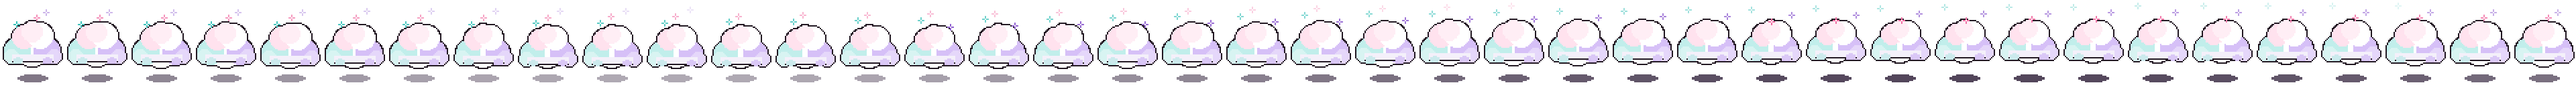
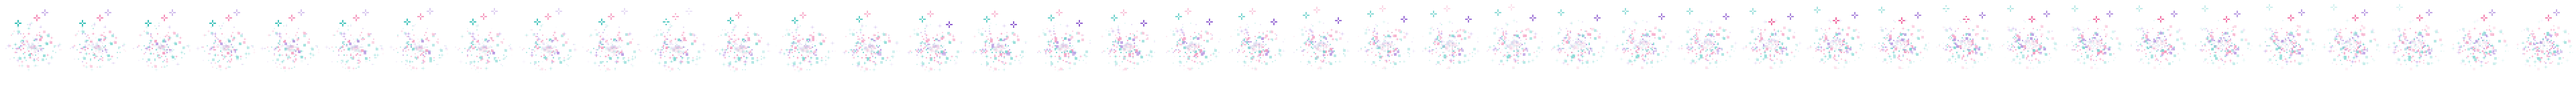
Dance Sisters v48: the Spirit of Dance as a nebulous cloud of energy
A bright white core with flecks scattering outwards, mostly white with
glowing flecks in the sisters' colours, after the owner's reference; a
little larger at every level.

Claude-Session: https://claude.ai/code/session_01KjbiH1Gxo3FA48ifQDakKd

Changed region(s): [[0.0, 0.2188, 1.0, 0.8125], [0.0, 0.875, 1.0, 0.9688], [0.1562, 0.1875, 0.2188, 0.2188]]

diff --git a/dance/app.js b/dance/app.js
@@ -4,7 +4,7 @@
    decision, 30 Oct 2026: the names are fixed in the game); a level is "<stage> <name>". Save in
    localStorage['dance.save']; nothing is sent anywhere. */
 'use strict';
-const APP_VERSION = '47';
+const APP_VERSION = '48';
 const ART = 'art/'; let ART_V = '';
 const NAMES = ['Lainey', 'Miri', 'Juliette'];   // youngest first
 let SPEC = null;
@@ -119,7 +119,7 @@ const earns = b => RATE(b.lv) * (b.lv === SPIRIT ? (b.sl || 1) : 1);   // the Sp
 const income = () => Object.values(save.fields).flat().reduce((s, b) => s + earns(b), 0);
 /* the Spirit of Dance: a level 1–100 in the middle of the cloud, which grows at 10 / 30 / 50 / 75; at 100 the game is won */
 const SPIRIT_MAX = 100;
-const spiritScale = sl => sl >= 75 ? 1.25 : sl >= 50 ? 1.1 : sl >= 30 ? .95 : sl >= 10 ? .8 : .65;
+const spiritScale = sl => sl >= 75 ? 1.45 : sl >= 50 ? 1.25 : sl >= 30 ? 1.08 : sl >= 10 ? .92 : .78;
 
 /* ---------- the field ---------- */
 function mount() {

diff --git a/dance/style.css b/dance/style.css
@@ -152,7 +152,7 @@ i.cn { display: inline-block; width: 16px; height: 16px; background: url('art/co
 .ib[hidden] { display: none; }
 
 /* the Spirit of Dance: a semi-transparent cloud sized by its level (--ss), the level number in the middle */
-.beast.spirit .spr { opacity: .8; transform: scale(var(--ss, 1)); transform-origin: 50% 100%; }
+.beast.spirit .spr { opacity: .85; transform: scale(var(--ss, 1)); transform-origin: 50% 100%; }
 .beast.spirit .sn { position: absolute; left: 50%; bottom: calc(60px * var(--ss, 1)); transform: translateX(-50%) scale(calc(var(--ss, 1) * 1.6)); transform-origin: 50% 50%; pointer-events: none; font-size: 0; line-height: 0; }
 .beast.spirit .sn .pt { filter: none; }
 .beast.spirit .sn .pt i { background-image: url('art/font.png'); }

diff --git a/dance/sw.js b/dance/sw.js
@@ -1,6 +1,6 @@
 // Dance Evolution service worker: the app shell is cached on install; the beast pictures and anything else under ../art
 // are cached as they are first fetched (cache first after that). Bump CACHE together with APP_VERSION in app.js.
-const CACHE = 'dance-v47';
+const CACHE = 'dance-v48';
 const SHELL = ['./', 'index.html', 'app.js', 'style.css', 'manifest.webmanifest', 'dancers.json', 'art/font.json', 'art/font.png', 'art/font_w.png'];
 self.addEventListener('install', e => { e.waitUntil(caches.open(CACHE).then(c => Promise.all(SHELL.map(u => c.add(u).catch(() => {})))).then(() => self.skipWaiting())); });
 // on activation, anything the new cache is missing (a shell file whose install fetch failed on a poor connection) is copied

diff --git a/CLAUDE.md b/CLAUDE.md
@@ -622,7 +622,7 @@ The Merge Beasts engine with **dancers**, at **latin.musicalmagic.uk/dance/** (`
 wording and sprites swapped; same save shape in `localStorage['dance.save']`). **The chain is 36 stages × 3 sisters = 108
 levels (v36: the owner wants twelve characters in every room, so nine rooms × four stages; `sisters7.py`; `load` remaps a save from the 20-stage chain by stage name, `save.chainv` = 2)** (`dance/dancers.json`: stage, sister, stageName, sheet, frames, top, crawl; worlds by stage, four each: Nursery 0–3 (Baby, Tot, **Birthday** — party hat, striped top, a balloon; a bounce, a sway and claps, a twirl — Nursery), Dance school 4–7 (Leotard, Dance school, First tutu, Jazz),
 Ballet theatre 8–11 (En pointe, Swan, **Sugar Plum** — the Nutcracker fairy, lilac tutu dotted in her colour, a wand; hops on pointe, a port de bras, piqué turns — Prima), City stage 12–15 (Street, **Tap** — waistcoat, bowler, black tap shoes; shuffle-hop, soft-shoe sway, pivot and stamp — **Salsa** — ruffles, red heels, hoop earrings; the basic step, hip sway, the cross-body turn — Stage star), World tour 16–19 (World tour, **Bollywood** — orange choli, gold bangles, a flower; shoulder bounces and jumps, wrist circles and the head slide, a spin — Movie star, Royal gala), Academy 20–23 (Teacher, **Examiner** — grey suit, a clipboard; marks, a nod, a hop — **Judge** — sequinned jacket, the "10" paddle — **Graduate** — gown and mortarboard; a jump for joy, hand on heart, a wave; `bg_academy`: a hall with three portraits, a trophy cabinet, a red carpet), **Studio 24–27** (**Rehearsal** — leggings, leg warmers `warmers`, a water bottle; star jumps, stretches, a lunge — Choreographer, **Dance captain** — black tee with her star; counts and jumps, arm sweeps, turning to the line — **Coach** — tracksuit and cap; squats, stretches, claps; `bg_studio`: a mirror wall with the cast reflected, a barre, a whiteboard, a chair, a boombox, tape marks), **Stage door 28–31** (**Understudy** — rehearsal greys, the script; Director, **Leading lady** — feather boa `collar: 'boa'`, long gloves; a kick, the boa sweep, a spin — **Producer** — the suit, a phone; `bg_stagedoor`: backstage bricks, the star door and its sign, a lamp, a costume rail, a flight case, a rope), **Hall of fame 32–35** (Icon, **Statue** — gold from head to toe, `skin_override` / `hairc_override`; a held pose and a bounce, a slow shimmer, a slow turn — **Superstar** — gold fringe and gloves, a boa; a leap, the sweep, a spin — Legend; new hats `partyhat` / `bowler` / `mortar`, props `wand` / `clipboard` / `paddle` / `bottle` / `script` / `phone`; `bg_hall`: spotlights, three framed stars in the sisters' colours, a chandelier, a marble plinth with a gold star, velvet ropes, a red carpet; `scratchpad/dancers/rooms2.py`) — **`load` migrates saves when rooms are split (v35)**: every dancer moves to the room of her stage, a bag that pointed into a later room moves there (clamped inside each room's levels), and the open rooms follow what has been made; stages: Baby, Tot, Nursery, Leotard, Dance school, First tutu,
-Jazz, En pointe, Swan, Prima, Street, Stage star, World tour, Movie star (dark bodice, long gown, flashbulbs), Royal gala (pale gown, tiara, a waltz), Teacher (bun, cardigan, black skirt, cane), **Choreographer** (all black, headset, shoes in her colour: marking the counts / arm cues / a spin to face the cast), **Director** (dark coat, red scarf: the bow from the wings), **Icon** (her colour head to toe, a silver streak: her earliest move perfected — Lainey's toddler jump as a tuck jump, Miri's sway as swan arms, Juliette's wobbly twirl as a clean double pirouette), Legend; `DESC` one line each). **The economy (31 Oct 2026, after the owner's daughters finished the first version in an afternoon)**: a better bag costs `crateUpCost` = 300 × 1.38^L (1.45 until v36; 108 levels) and **must be earned — the dancer three levels above the bag has to have been made by merging first** (`GATE` = 3, the owner's rule on 31 Oct 2026 after one level proved too easy and two had looked like a bug; near the end the gate is the last dancer; `crateGate` / `crateEarned`, `save.seen`; the shop row says "Locked: make … by merging first" and the button reads 🔒 Locked instead of a price), an Invite is `priceOf` = 40 × 1.35^L. **The Spirit of Dance (v46)**: level 108, stage 36, the one level above Legend Juliette — **two Legend Juliettes merge into it** (the owner's ask): a cloud with hints of the three sisters' colours (teal left, pink top, purple right, three sparkles in their colours; `scratchpad/dancers/spirit.py`, 40 frames, `art/s37_1.png`, drawn at 48 × 64 and doubled; `sisters7.py` appends it on every rebuild), `sister: -1` in `dancers.json`, `spirit: true` in `CHAIN`, named "Spirit of / Dance" above the cloud (`lvHTML`), fanfare kicker "✨ THE SPIRIT OF DANCE ✨", `save.spirit` the first time; **it has a level (v47)**: `b.sl` 1–100 (`SPIRIT_MAX`), shown in the middle of the cloud in the dark pixel font (`.sn`), a Spirit absorbs a Legend Juliette (+1) or another Spirit (the levels add; `canMerge`), the cloud is semi-transparent (`.beast.spirit .spr` opacity .8) and **grows at 10 / 30 / 50 / 75** (`spiritScale` .65 → .8 → .95 → 1.1 → 1.25, `--ss`), earns its level × a dancer's rate (`earns`); **level 100 wins the game** (`won()`, once, `save.won`: the owner's words — "Congratulations … The girls have gone beyond being physical dancers and have become the universal spirit of dance itself …" — with RESTART ON HARD MODE and Keep playing; the Hall offers it again once won). **Hard mode** (`hardMode`, `save.hard` counts restarts): everything is undone — dancers, coins, bags, upgrades, Dancepedia, stars, encores — and `RATE` is halved per hard restart; a `#hardTag` after the rate in the top bar; it lives in the Hall of fame (`stages: [32, 36]`); bags never bring it (`canUp` stops at `CHAIN.length - 2`); two Spirits cannot merge (the Hall opens) and a Spirit or a Legend Juliette can be retired (`isFinal` = `LEGEND` or `SPIRIT`, both set in `buildChain`). **The ending** (`discover` on `LEGEND` = Legend Juliette, not the last level → `finale`, once, `save.finished`; the trio is `CHAIN.slice(LEGEND - 2, LEGEND + 1)`): a curtain-call overlay (`.finale`: red curtains part, the three Legends dancing, a pixel trophy `art/trophy.png`, confetti, "You did it!"), then the **Hall of Fame** (`hall`, the 🏆 button in the top bar, shown once finished): two Spirits cannot merge (a merge of two opens the Hall instead) — **Retire a Legend** removes a final-level dancer from the stage for a ⭐ (`save.stars`) and two hours' income; **Encore** (`save.encore`) starts the show again from the cot with +50 % earnings per encore for ever (`RATE`), keeping upgrades, stars and the Dancepedia. **The sisters' names are fixed in `NAMES` in `dance/app.js`** (youngest first) — the
+Jazz, En pointe, Swan, Prima, Street, Stage star, World tour, Movie star (dark bodice, long gown, flashbulbs), Royal gala (pale gown, tiara, a waltz), Teacher (bun, cardigan, black skirt, cane), **Choreographer** (all black, headset, shoes in her colour: marking the counts / arm cues / a spin to face the cast), **Director** (dark coat, red scarf: the bow from the wings), **Icon** (her colour head to toe, a silver streak: her earliest move perfected — Lainey's toddler jump as a tuck jump, Miri's sway as swan arms, Juliette's wobbly twirl as a clean double pirouette), Legend; `DESC` one line each). **The economy (31 Oct 2026, after the owner's daughters finished the first version in an afternoon)**: a better bag costs `crateUpCost` = 300 × 1.38^L (1.45 until v36; 108 levels) and **must be earned — the dancer three levels above the bag has to have been made by merging first** (`GATE` = 3, the owner's rule on 31 Oct 2026 after one level proved too easy and two had looked like a bug; near the end the gate is the last dancer; `crateGate` / `crateEarned`, `save.seen`; the shop row says "Locked: make … by merging first" and the button reads 🔒 Locked instead of a price), an Invite is `priceOf` = 40 × 1.35^L. **The Spirit of Dance (v46)**: level 108, stage 36, the one level above Legend Juliette — **two Legend Juliettes merge into it** (the owner's ask): a nebulous cloud of energy, not a weather cloud (v48, after the owner's reference picture): a bright white core with pixel flecks scattering outwards and thinning, mostly white with glowing flecks in the three sisters' colours, drifting and twinkling, three sparkles above (`scratchpad/dancers/spirit.py`, 40 frames, `art/s37_1.png`, drawn at 48 × 64 and doubled; `sisters7.py` appends it on every rebuild), `sister: -1` in `dancers.json`, `spirit: true` in `CHAIN`, named "Spirit of / Dance" above the cloud (`lvHTML`), fanfare kicker "✨ THE SPIRIT OF DANCE ✨", `save.spirit` the first time; **it has a level (v47)**: `b.sl` 1–100 (`SPIRIT_MAX`), shown in the middle of the cloud in the dark pixel font (`.sn`), a Spirit absorbs a Legend Juliette (+1) or another Spirit (the levels add; `canMerge`), the cloud is semi-transparent (`.beast.spirit .spr` opacity .8) and **grows at 10 / 30 / 50 / 75** (`spiritScale` .78 → .92 → 1.08 → 1.25 → 1.45, `--ss`), earns its level × a dancer's rate (`earns`); **level 100 wins the game** (`won()`, once, `save.won`: the owner's words — "Congratulations … The girls have gone beyond being physical dancers and have become the universal spirit of dance itself …" — with RESTART ON HARD MODE and Keep playing; the Hall offers it again once won). **Hard mode** (`hardMode`, `save.hard` counts restarts): everything is undone — dancers, coins, bags, upgrades, Dancepedia, stars, encores — and `RATE` is halved per hard restart; a `#hardTag` after the rate in the top bar; it lives in the Hall of fame (`stages: [32, 36]`); bags never bring it (`canUp` stops at `CHAIN.length - 2`); two Spirits cannot merge (the Hall opens) and a Spirit or a Legend Juliette can be retired (`isFinal` = `LEGEND` or `SPIRIT`, both set in `buildChain`). **The ending** (`discover` on `LEGEND` = Legend Juliette, not the last level → `finale`, once, `save.finished`; the trio is `CHAIN.slice(LEGEND - 2, LEGEND + 1)`): a curtain-call overlay (`.finale`: red curtains part, the three Legends dancing, a pixel trophy `art/trophy.png`, confetti, "You did it!"), then the **Hall of Fame** (`hall`, the 🏆 button in the top bar, shown once finished): two Spirits cannot merge (a merge of two opens the Hall instead) — **Retire a Legend** removes a final-level dancer from the stage for a ⭐ (`save.stars`) and two hours' income; **Encore** (`save.encore`) starts the show again from the cot with +50 % earnings per encore for ever (`RATE`), keeping upgrades, stars and the Dancepedia. **The sisters' names are fixed in `NAMES` in `dance/app.js`** (youngest first) — the
 owner's explicit decision on 30 Oct 2026, reaffirmed after the risk of a public repo was put to him; this is the one
 exception to the no-names rule above and it covers the three first names only (no surnames, ages, school or photos — the
 photos he sent to set the looks are not in the repo and must never be); a level is `nameOf(c)` = "<stage> <name>". **The art is the cute 48 × 64 chibi style the owner's daughters loved (v24), chosen again on 31 Oct 2026 after a higher-resolution, likeness-driven redraw (fig4 / sisters4, hand-pixelled heads, kept in the session scratchpad with the research and the plan) was rejected: "not recognisable, and we've lost the cute look"** — at a 30-px face a likeness is carried by hair, colour, size and movement, not by drawing the face. The looks, youngest first: Lainey dark-brown wavy hair pulled back for class (bunches with blue bows at Nursery), simple smile; Miri a mass of dark curls with a centre parting (`curly`), a small grin; Juliette long straight dark hair, tallest, a small grin. **Each sister has a colour family for every costume** (`COL` in `sisters5.py`: Lainey teal, Miri pink, Juliette purple — main / light / dark; the Swan tutu stays white and the Legend gown gold, with the sister's colour on the bodice or panel), and **every stage has its own combination of silhouette, tone, pattern or second colour, legwear, hair or hat and prop** (v32, after the girls found many too similar; `STAGES` in `sisters6.py`; `fig3` options `pattern` dots / stripes / star / sash, `patc`, `gloves`, `collar`, hats and hair `tophat` / `beret` / `hood` / `updo` / `pony` / `bunches`, props `flowers` / `balloon` / `clapper`): Baby nappy; Tot dotted top + tiny tutu, hair down; Nursery party dress with a white collar, a balloon, bunches / curls / ponytail; Leotard pale leotard + white tights; Dance school bun, black practice skirt, pink tights; First tutu dark bodice with a gold sash, big pale tutu, bow / tiara / flower; Jazz striped top, black skirt and tights, a top hat; En pointe white leotard, her tutu, ribbons, bun; Swan all white with her sash and a tiara; Prima dark bodice, her tutu, pink tights, a bouquet, hair up high; Street tee, jeans, trainers, cap / ponytail; Stage star black sequin top, her fringe, gold shoes, mic / star; World tour flamenco ruffles / coin skirt / fan gown; Movie star gold top, her long gown, long gloves, a clapperboard, updo; Royal gala pale gown, white gloves, red sash, tiara; Teacher cardigan with a white collar, black wrap skirt, cane, bun; Choreographer her hoodie, black joggers, headset; Director black coat, red scarf, black beret; Icon her colour head to toe with a white star and the silver streak; Legend gold head to toe with her panel, gold gloves, a star above her — then the stages above. **Art**: 16-bit-style pixel sprites, **the cute 48-unit chibi design drawn at 96 × 128 (v31)** — `fig5.py` runs `fig3`'s body through the doubling canvas (`S2`, finer 1-px outline and shading, the big head and simple dark eyes kept; `facekind` small / round / tall gives Lainey smaller cheerful eyes and Juliette taller ones) — drawn by the session scratchpad generators `scratchpad/dancers/fig2.py` (the palette and the first figure) and **`sisters6.py` (= `sisters5.py` on `figure5`, with secondary motion: the skirt `tdy` and the head lag the body's rise and fall by a frame) + `fig3.py` / `fig5.py`** (`choreography.md`, `plan.md`, `brief.md` and the three `research_*.md` beside them): **each sister has a movement personality that holds through every stage, so she is known without her name — Lainey jumps (lifts, squats, leaps), Miri flows (arms, balances, sways, head tilts), Juliette turns (spins, footwork, clean finishes)** — and **the moves climb a real ladder** (toddler bounce / sway / tiptoe / gallop → primary-class pliés, tendus, sautés, port de bras → arabesque, échappé, pas de chat, développé, a single pirouette → jazz kick-ball-change, isolations, jazz square + pivot → pointe échappés, bourrée, piqué turns → swan sissonnes, swan arms + penché, bourrée en tournant → grand jeté, attitude promenade, fouettés → running man, body wave, two-step + freeze → kick line + split leap, mic turn, chaînés → flamenco / belly dance / fan dance → red carpet, a waltz, teaching, choreographing, the director's bow, the icon's perfected first move → grand jeté manège, penché, fouettés, all into a révérence); the Baby crawls (Lainey fast then bum-bounces; Miri sits rocking and clapping with a short crawl; Juliette crawls and pushes up to kneel). Keyframes are eased to 32 frames (40 for Baby, Prima, Legend). `fig3.figure3` takes a continuous `pose` — limb endpoints, optional knees `lk/rk`, elbows `le/re`, `sink` (hips drop for a plié), lean, bend, lift, `pointe`, `jazz` hands, a `turn` that **rotates the body in depth (v37, after the owner saw World tour Juliette "split in half" by the old squash-and-mirror spin): `vc`/`vs` = cos/sin of the angle; every sideways offset (feet, knees, hands, elbows, shoulders) is scaled by cos, the torso and skirts narrow to no less than 42 %, a tutu stays a disc, the far arm is drawn behind the body, patterns and the gown panel only show from the front, and `draw_head` slides the features round the head (one eye in profile) and covers the face with hair from behind (`s.view`)**, and for babies `tilt` 0 crawl → 1 sit, `knees` 1 kneel, `stride`; `loop(keys, n)` eases between weighted keyframes, `turn` always forwards — → `dance/art/sNN_G.png` horizontal sprite sheets + `dancers.json`; the older `sisters.py` / `fig2.figure` drew the first 6–8 still poses); `spriteHTML(c, scale)` shows a sheet as a
